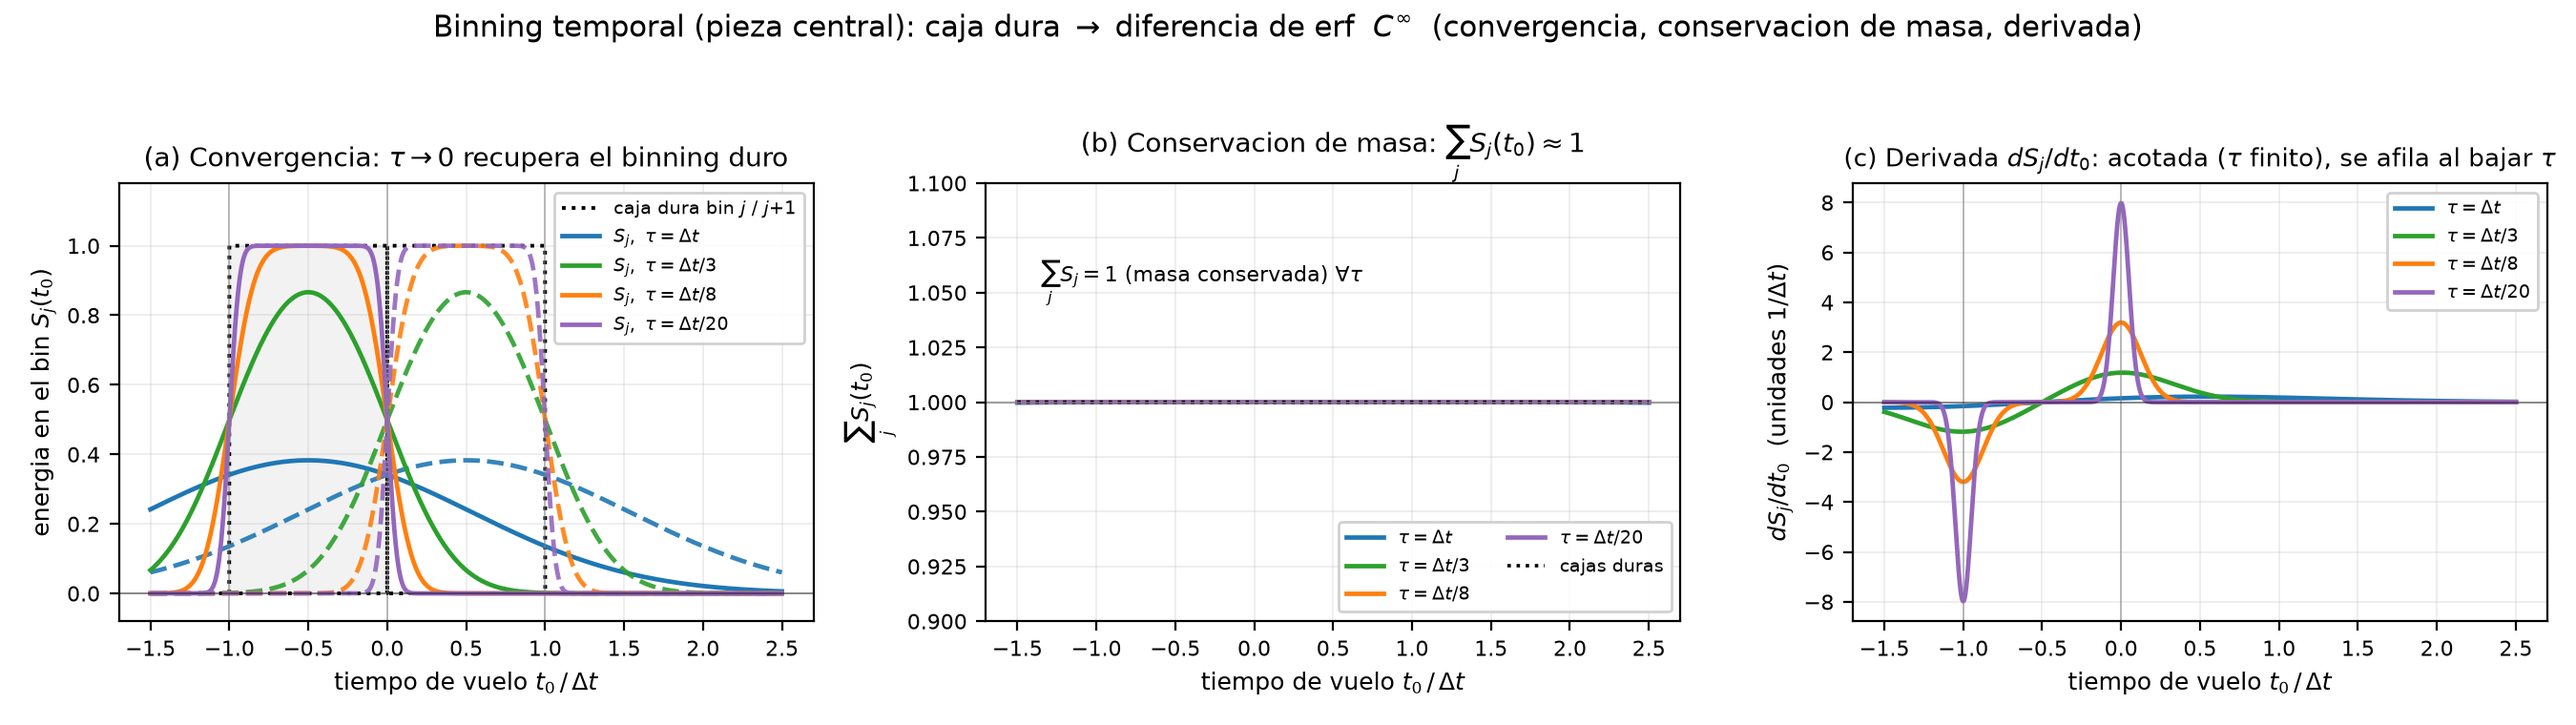
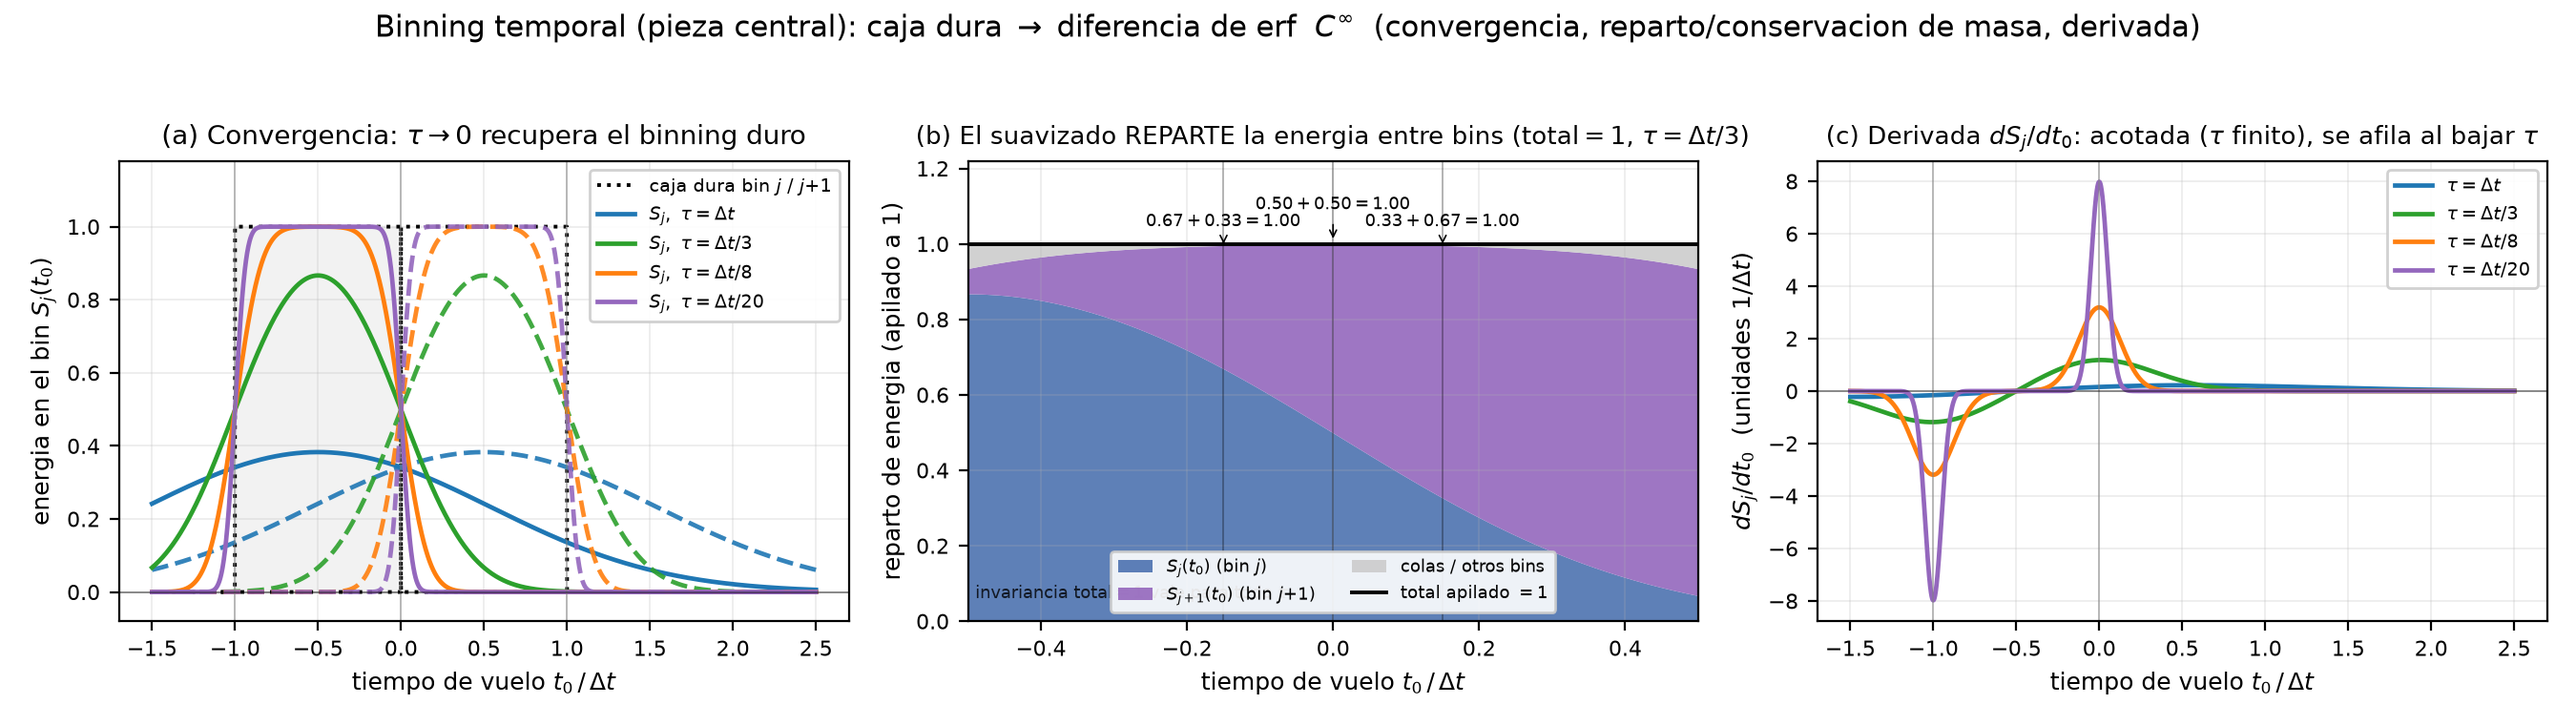
Make binning panel (b) an intuitive energy-sharing stack
Replace the flat sum-line in panel (b) of plots/crb_smoothing_binning.png with a
stacked-area 'reparto' visualization: for a representative pulse tau=dt/3, the
energy of one pulse is split between the two adjacent bins (S_j bottom, S_{j+1}
on top) plus a thin tails/other-bins band, stacked to a constant total = 1.
Annotate the arithmetic at three t0 values (0.67+0.33=1.00, 0.50+0.50=1.00,
0.33+0.67=1.00), computed programmatically so they always match, and note that
total=1 holds for all tau. Panels (a) convergence and (c) derivative unchanged.

Changed region(s): [[0.0, 0.1513, 0.9956, 0.9684], [0.1244, 0.0, 0.8711, 0.0605], [0.7156, 0.8776, 0.9956, 0.9684]]

diff --git a/generate_smoothing_plots.py b/generate_smoothing_plots.py
@@ -217,30 +217,46 @@ def plot_binning() -> Path:
     _style(axA)
     axA.legend(fontsize=7, loc="upper right", ncol=1, framealpha=0.9)
 
-    # ---- (b) sum over ALL bins: mass conservation ~ 1 -----------------------
-    for tau, tl, tc in zip(taus, tau_labels, tau_colors):
-        r = tau / dt
-        total = np.zeros_like(u)
-        for k in range(k_lo, k_hi + 1):
-            total += erf_bin_u(u, float(k), float(k + 1), r)
-        axB.plot(u, total, color=tc, linewidth=1.7, label=rf"$\tau={tl}$")
-    # hard boxes also sum to 1 across the (interior) support
-    total_hard = np.zeros_like(u)
-    for k in range(k_lo, k_hi + 1):
-        total_hard += box_u(u, float(k), float(k + 1))
-    axB.plot(u, total_hard, ":", color="black", linewidth=1.3,
-             label="cajas duras")
-    axB.axhline(1.0, color="grey", linewidth=0.8, alpha=0.7)
-    axB.annotate(r"$\sum_j S_j = 1$ (masa conservada) $\forall\tau$",
-                 xy=(0.5, 1.0), xytext=(-1.35, 1.055), fontsize=FS_LEG,
-                 color="black")
-    axB.set_title(r"(b) Conservacion de masa: $\sum_j S_j(t_0)\approx 1$",
-                  fontsize=FS_TITLE)
+    # ---- (b) how ONE pulse's energy is SHARED between neighbours (stacks to 1)
+    # Representative pulse width tau = Delta t/3 (thin tails), focus near the
+    # shared edge at u=0 so the two adjacent bins hold ~all the mass.  The
+    # stacked bands (S_j, S_{j+1}, tails/other bins) add up to exactly 1.
+    r_rep = 1.0 / 3.0
+    r_rep_label = r"\Delta t/3"
+    xb = np.linspace(-0.5, 0.5, 800)
+    Sj = erf_bin_u(xb, jlo, jhi, r_rep)
+    Sj1 = erf_bin_u(xb, j1lo, j1hi, r_rep)
+    tails = np.clip(1.0 - Sj - Sj1, 0.0, None)   # energy in all other bins
+    axB.stackplot(
+        xb, Sj, Sj1, tails,
+        colors=["#4C72B0", "#9467BD", "#CCCCCC"],
+        labels=[r"$S_j(t_0)$ (bin $j$)", r"$S_{j+1}(t_0)$ (bin $j{+}1$)",
+                r"colas / otros bins"],
+        alpha=0.9,
+    )
+    axB.plot(xb, Sj + Sj1 + tails, color="black", linewidth=1.4,
+             label=r"total apilado $=1$")
+    # annotate the arithmetic of the split at a few t0 values
+    for up in (-0.15, 0.0, 0.15):
+        sj = float(erf_bin_u(np.array([up]), jlo, jhi, r_rep)[0])
+        sj1 = float(erf_bin_u(np.array([up]), j1lo, j1hi, r_rep)[0])
+        tl_ = max(0.0, 1.0 - sj - sj1)
+        axB.axvline(up, color="black", linewidth=0.6, alpha=0.35)
+        txt = (rf"${sj:.2f}+{sj1:.2f}+{tl_:.2f}=1.00$" if tl_ >= 0.01
+               else rf"${sj:.2f}+{sj1:.2f}=1.00$")
+        axB.annotate(txt, xy=(up, 1.0), xytext=(up, 1.045 + 0.045 * (up == 0.0)),
+                     fontsize=6.4, color="black", ha="center",
+                     arrowprops=dict(arrowstyle="->", color="black", lw=0.6))
+    axB.set_title(rf"(b) El suavizado REPARTE la energia entre bins (total$=1$, "
+                  rf"$\tau={r_rep_label}$)", fontsize=FS_TITLE - 0.5)
     axB.set_xlabel(r"tiempo de vuelo $t_0\,/\,\Delta t$", fontsize=FS_LABEL)
-    axB.set_ylabel(r"$\sum_j S_j(t_0)$", fontsize=FS_LABEL)
-    axB.set_ylim(0.9, 1.1)
+    axB.set_ylabel(r"reparto de energia (apilado a 1)", fontsize=FS_LABEL)
+    axB.set_xlim(-0.5, 0.5)
+    axB.set_ylim(0.0, 1.22)
     _style(axB)
-    axB.legend(fontsize=7, loc="lower right", ncol=2, framealpha=0.9)
+    axB.legend(fontsize=6.6, loc="lower center", ncol=2, framealpha=0.9)
+    axB.text(-0.49, 0.06, "invariancia total$=1$ vale para todo $\\tau$",
+             fontsize=6.4, color="black", alpha=0.8)
 
     # ---- (c) derivative dS_j/dt0: bounded for finite tau, sharpens as tau->0 -
     for tau, tl, tc in zip(taus, tau_labels, tau_colors):
@@ -262,7 +278,7 @@ def plot_binning() -> Path:
 
     fig.suptitle("Binning temporal (pieza central): caja dura $\\to$ diferencia "
                  "de $\\mathrm{erf}$  $C^\\infty$  "
-                 "(convergencia, conservacion de masa, derivada)",
+                 "(convergencia, reparto/conservacion de masa, derivada)",
                  fontsize=FS_TITLE + 1)
     fig.tight_layout(rect=(0, 0, 1, 0.95))
     out = PLOTS / "crb_smoothing_binning.png"
